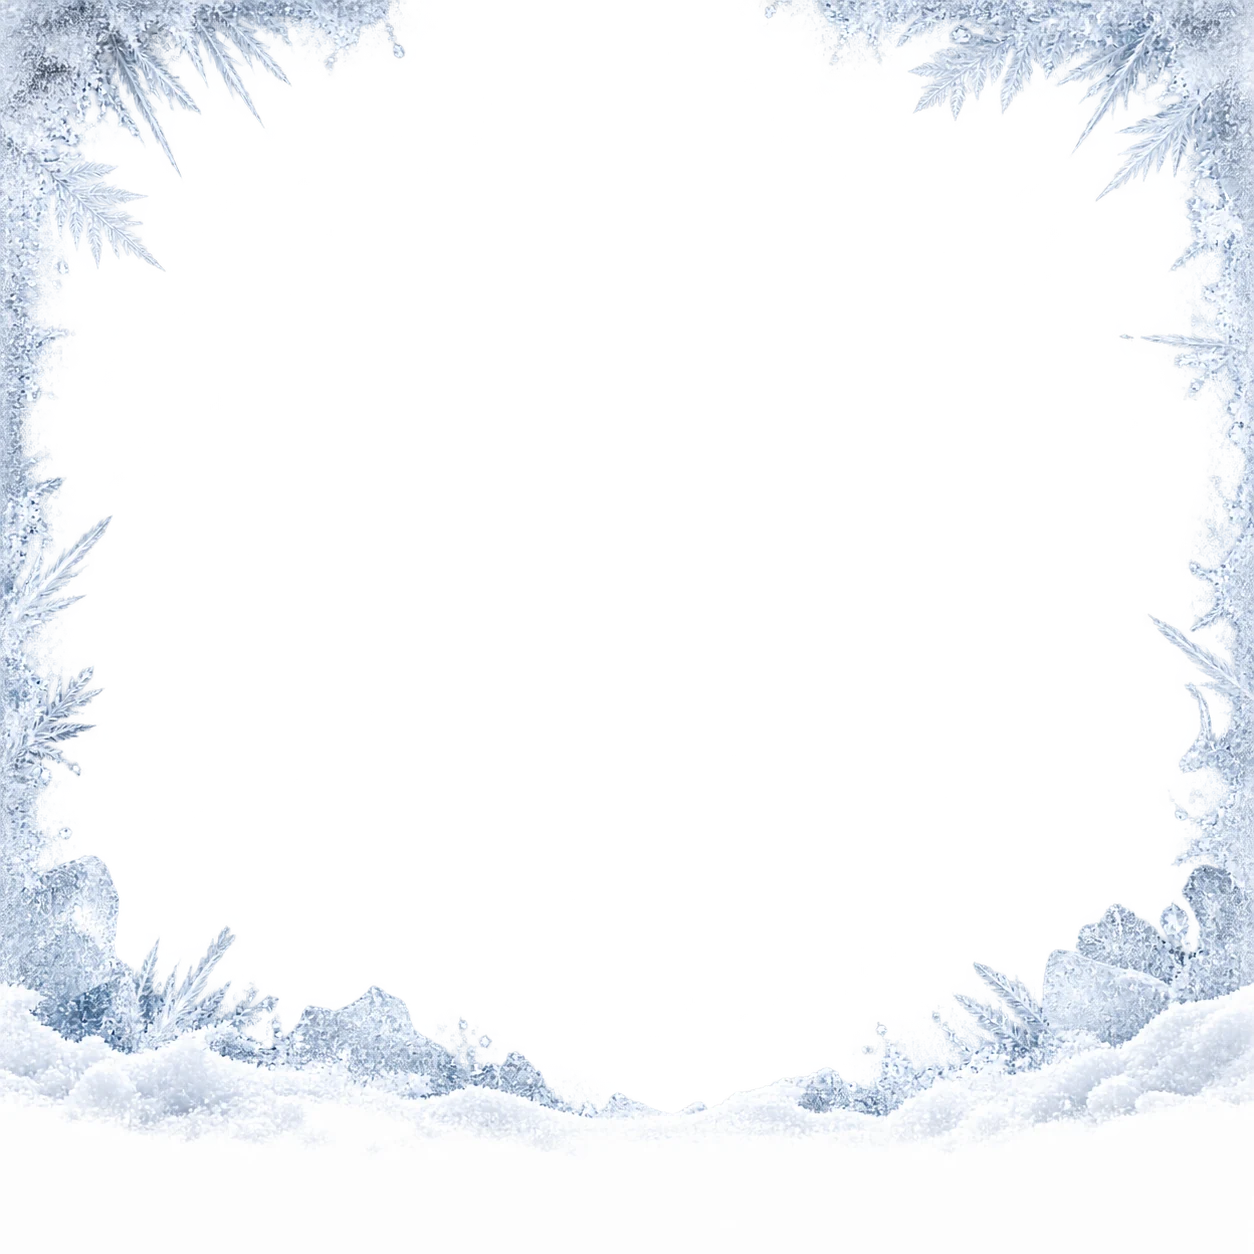
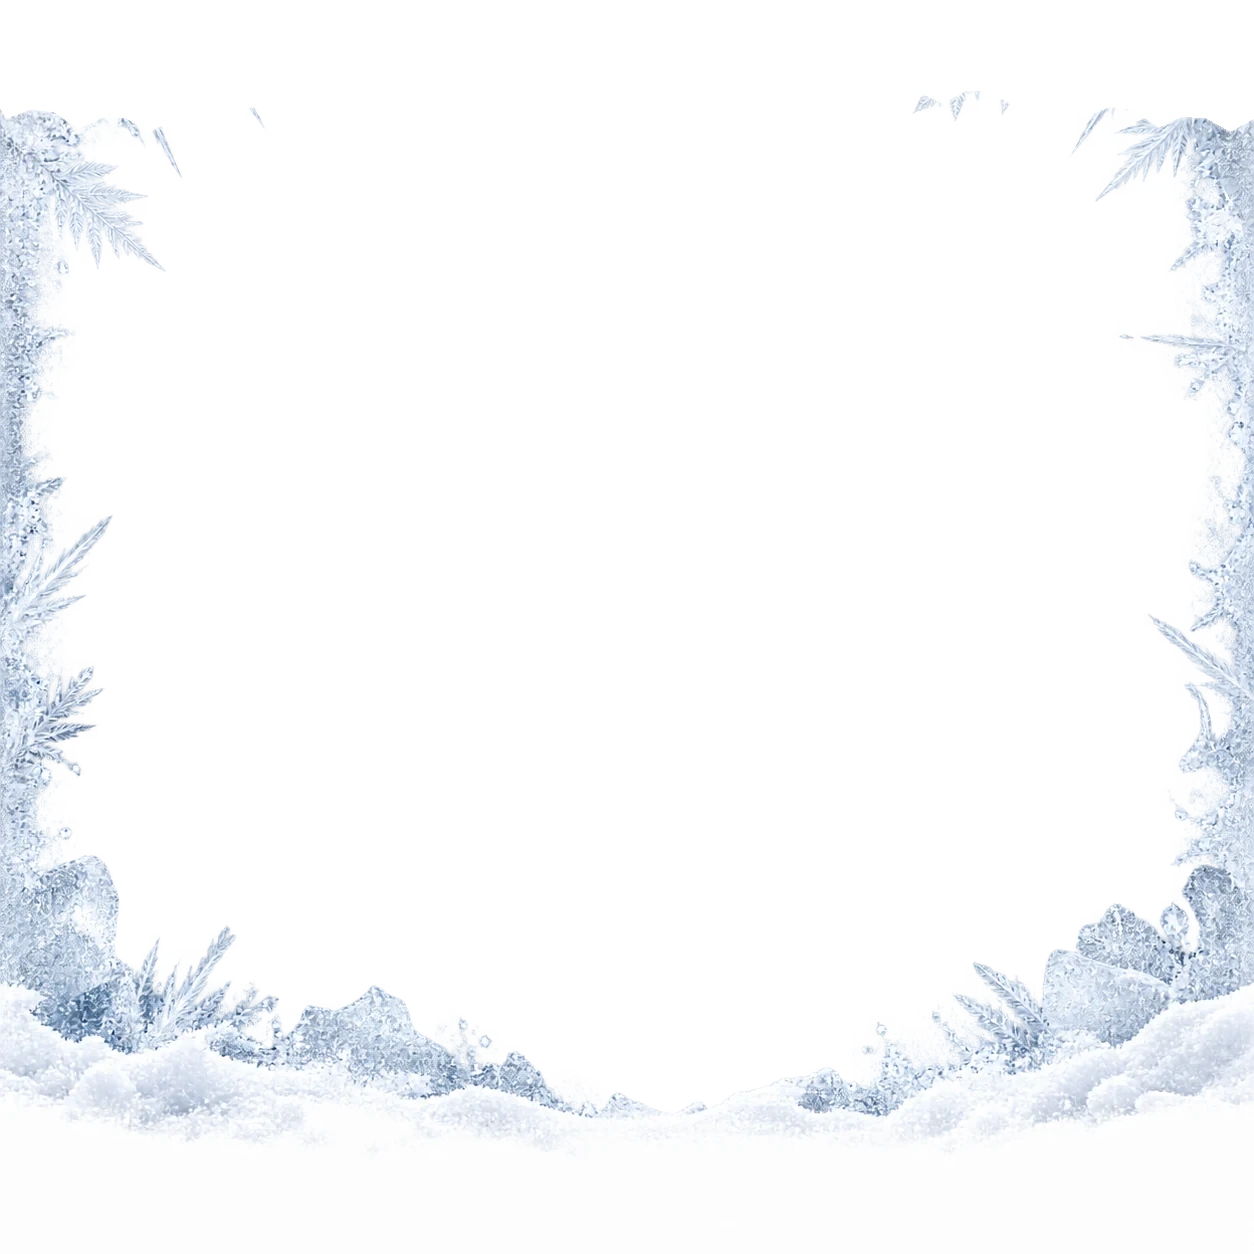
s

Changed region(s): [[0.6531, 0.0, 1.0, 0.1244], [0.0, 0.0, 0.311, 0.0933]]

diff --git a/components/site-header.tsx b/components/site-header.tsx
@@ -152,7 +152,11 @@ export function SiteHeader() {
               {coverageLinks.map(([name, code, slug]) => (
                 <Link
                   href={`/service-areas/${slug}`}
-                  onClick={closeMobileMenu}
+                  onClick={(event) => {
+                    event.preventDefault();
+                    closeMenu();
+                    window.location.assign(`/service-areas/${slug}`);
+                  }}
                   key={slug}
                 >
                   <strong>{name}</strong>

diff --git a/app/globals.css b/app/globals.css
@@ -2903,21 +2903,6 @@ blockquote {
       );
   }
 
-  .frost-overlay::before {
-    content: '';
-    position: absolute;
-    top: 0;
-    right: 0;
-    left: 0;
-    z-index: 1;
-    height: 150px;
-    background: url('/frost-overlay-icy-window.webp') center / 100% 100%
-      no-repeat;
-    filter: saturate(0.92) brightness(1.02);
-    transform: rotate(180deg);
-    transform-origin: center;
-  }
-
   .hero-panel {
     min-height: 840px;
     padding-top: 108px;
